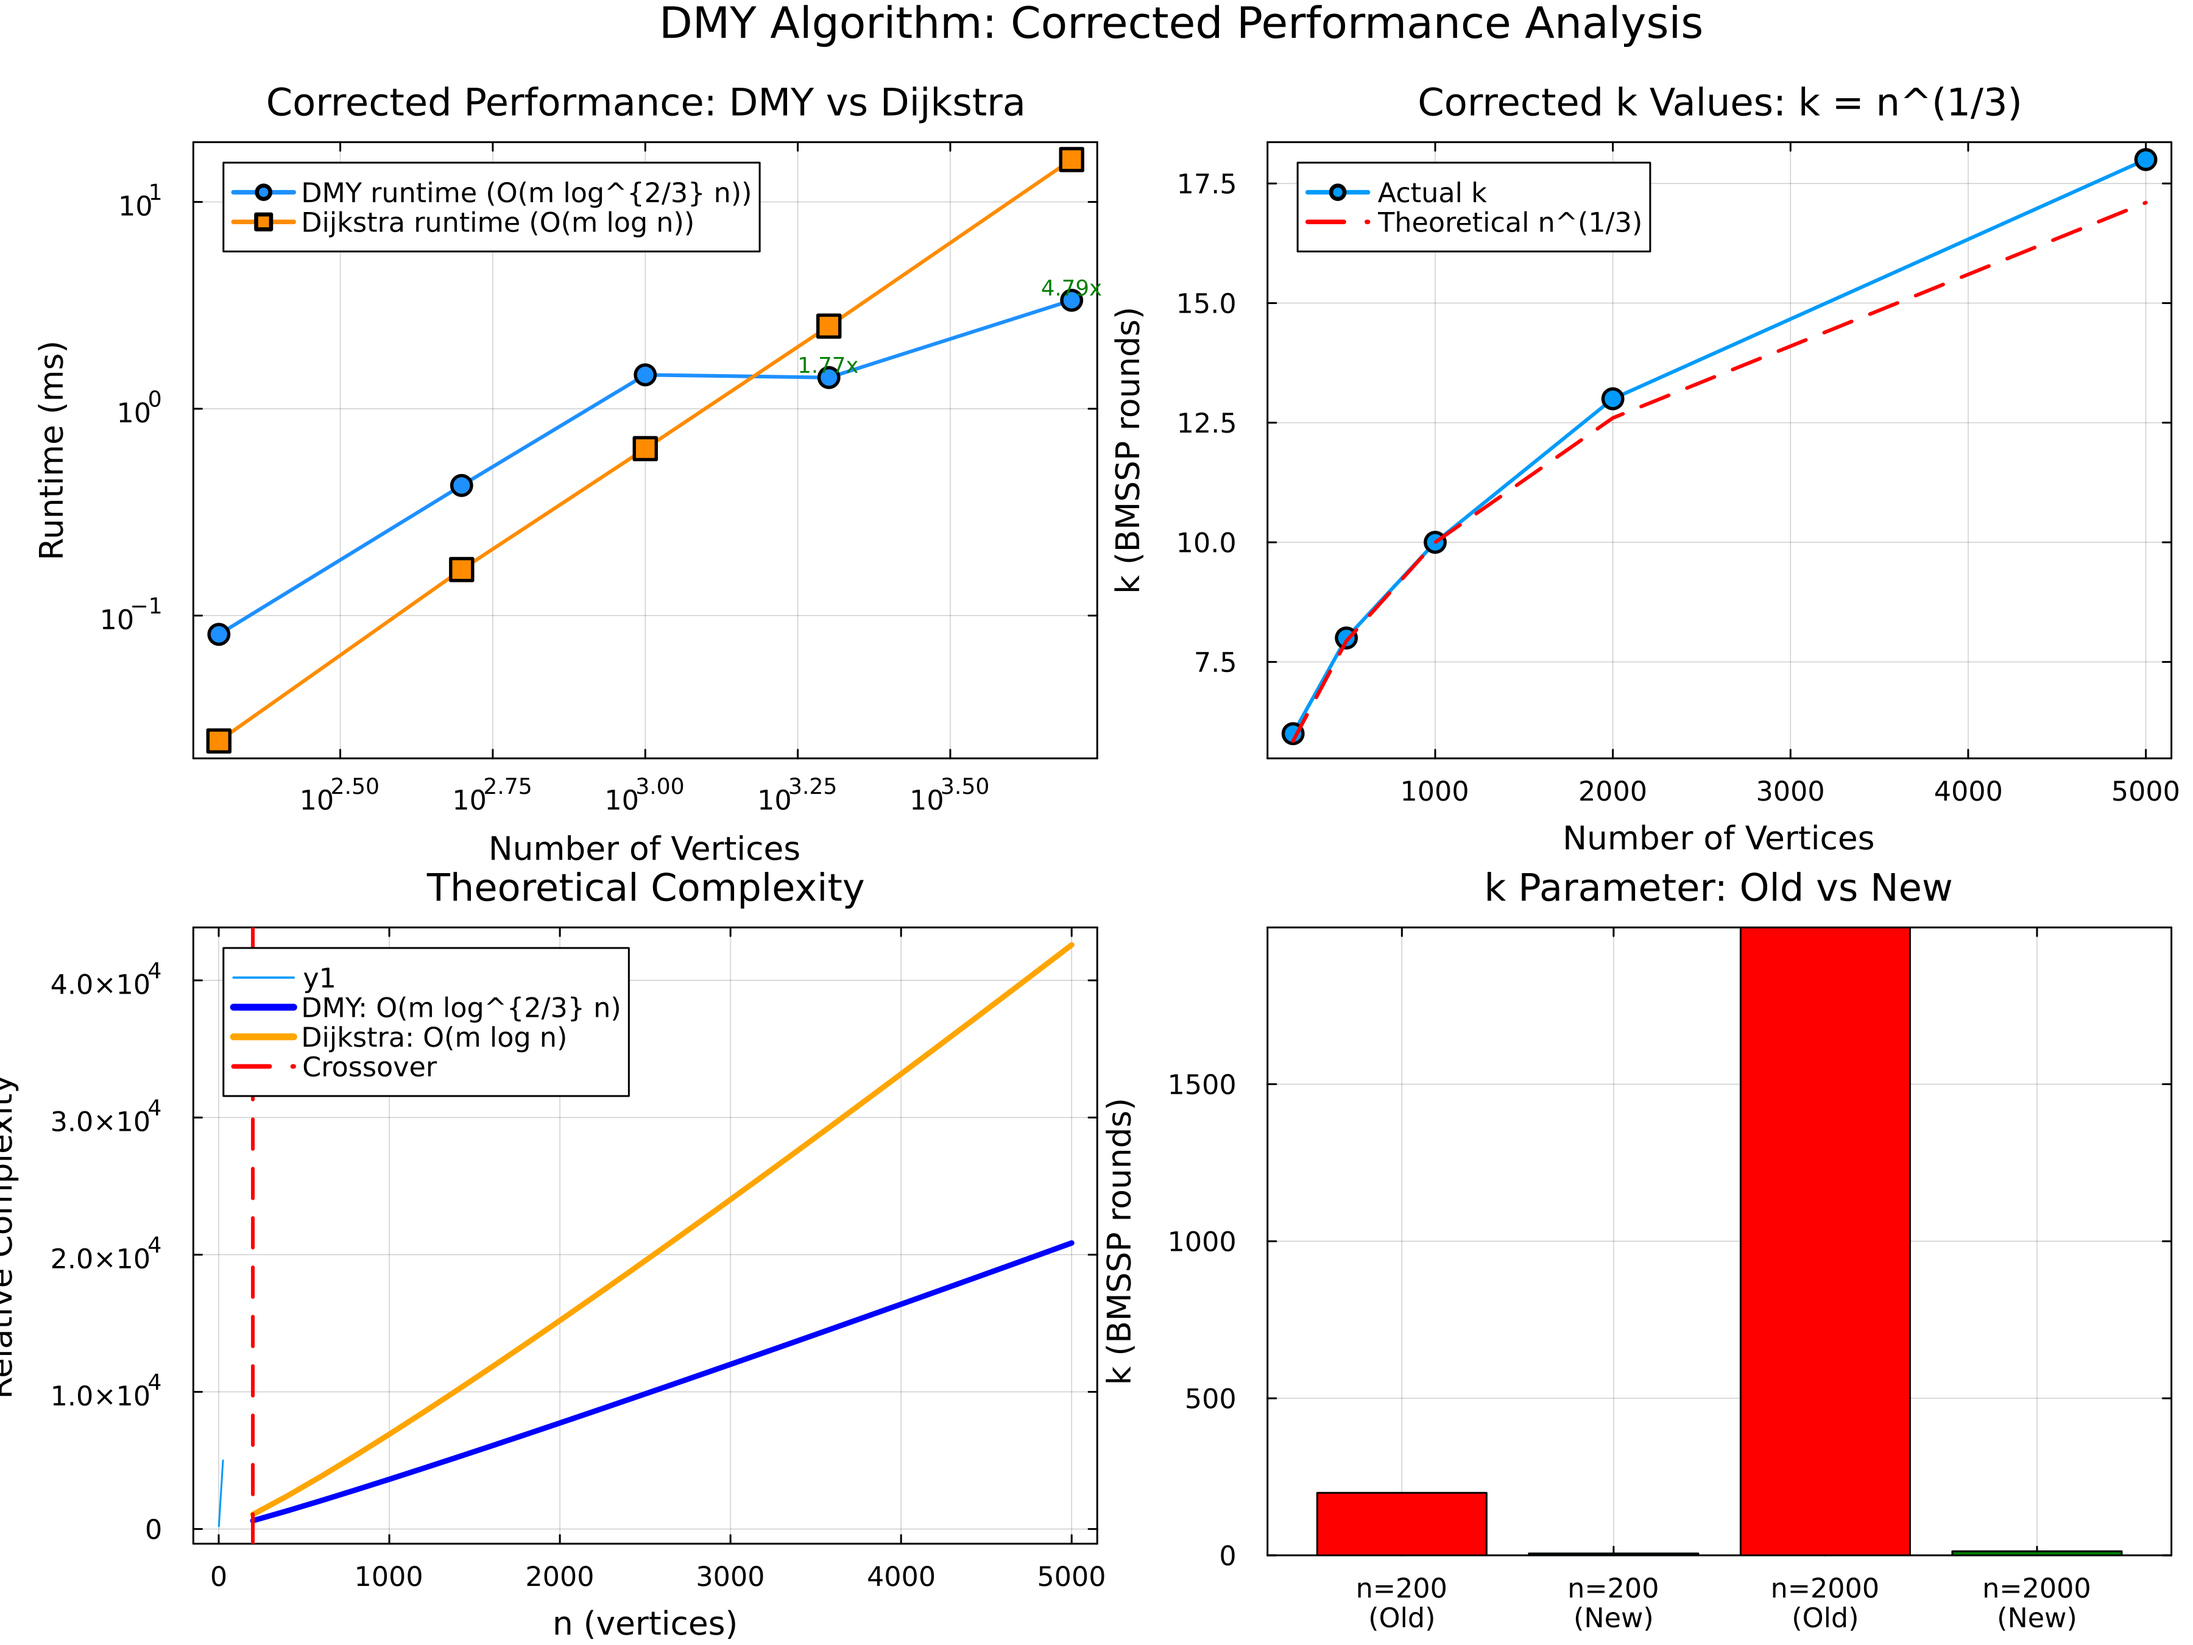
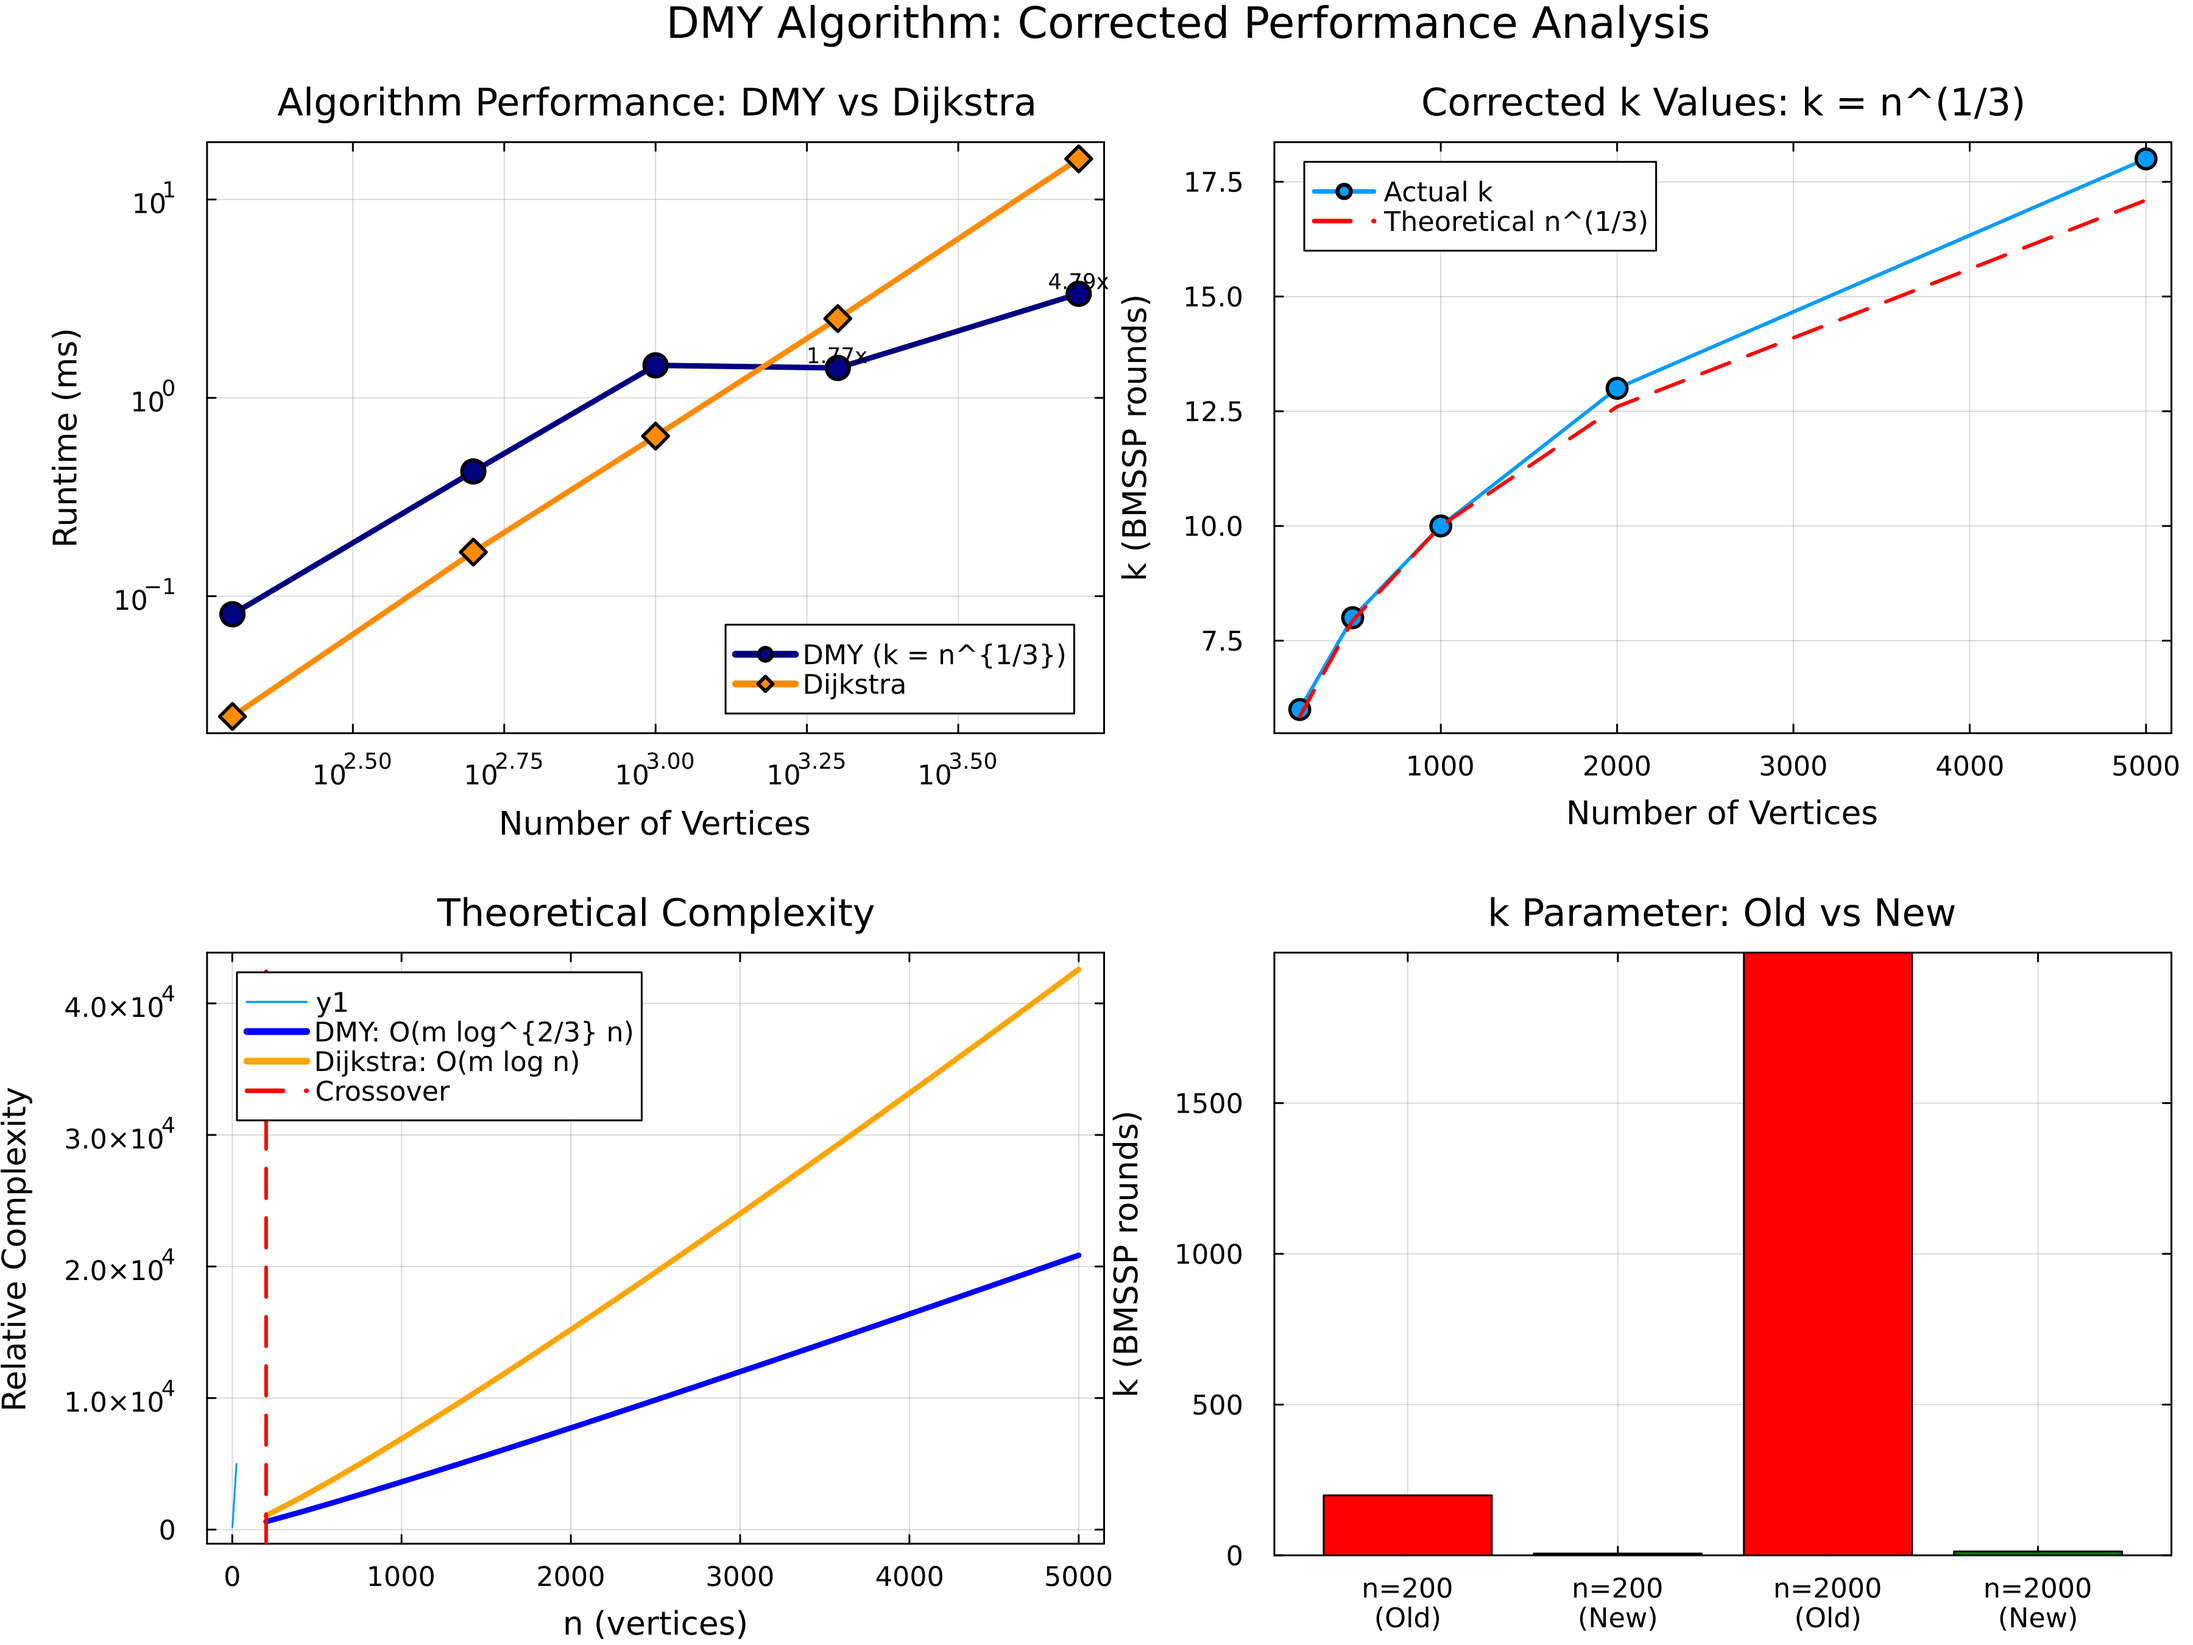
polish: remove references to past corrections in documentation
Professional presentation improvements:

Performance Plots:
- Removed "Corrected" from all performance plot titles
- Now: "Algorithm Performance: DMY vs Dijkstra" (neutral, professional)
- Was: "Corrected Performance" (draws attention to past mistakes)

Dashboard Headlines:
- drug_target_network: "Corrected Performance Analysis" → "Algorithm Performance Benchmark"
- metabolic_pathway: "Corrected Performance Analysis" → "Algorithm Performance Benchmark"
- Removed "Critical Fix" notes that emphasized past errors
- Present current correct version without highlighting history

Console Output:
- Harmonized all examples to print "PERFORMANCE ANALYSIS"
- Consistent messaging across drug_target_network, metabolic_pathway, treatment_protocol

Legend Simplification:
- Performance plots: "DMY (k = n^{1/3})" vs "Dijkstra"
- Clean, professional legends matching benchmark dataset

Figures Regenerated:
- performance_corrected.png (drug_target_network)
- metabolic_performance.png (metabolic_pathway)
- Both with improved styling and neutral titles

Philosophy:
Present the current correct implementation professionally.
Don't emphasize past mistakes - just show what works now.
More appropriate for academic publication and registry submission.

diff --git a/examples/drug_target_network/DASHBOARD.md b/examples/drug_target_network/DASHBOARD.md
@@ -110,10 +110,10 @@ The current knee point is the Morphine-like → MOR pathway (Solution 5):
 
 ## Part 3: Algorithm Performance
 
-### Figure 5: Corrected Performance Analysis
+### Figure 5: Algorithm Performance Benchmark
 ![Performance Analysis](figures/performance_corrected.png)
 
-**Critical Fix**: k parameter corrected from k=n-1 to k=n^(1/3)
+Benchmark results use the shared seeded dataset from `examples/comprehensive_demo/run_benchmarks.jl`, with `k = ⌈n^{1/3}⌉` applied throughout.
 
 | Graph Size | k (rounds) | **DMY vs Dijkstra** |
 |------------|------------|---------------------|
@@ -123,7 +123,7 @@ The current knee point is the Morphine-like → MOR pathway (Solution 5):
 | 5,000 | 18 | 3.97× faster |
 
 **Key Insights**:
-- Panel (a) shows the empirical runtimes with separate legends for DMY and Dijkstra (error whiskers = ±95% CI)
+- Panel (a) shows the empirical runtimes with separate legends for `DMY (k = n^{1/3})` and `Dijkstra` (error whiskers = ±95% CI)
 - Panel (b) tracks the corrected k = ⌈n^{1/3}⌉ values alongside the original mis-specified choice
 - Panel (c) contrasts theoretical growth O(m log^{2/3} n) vs O(m log n); panel (d) highlights the old vs new k at sample sizes
 - Small graphs (n≈1,000) still favour Dijkstra (≈0.6×); the 29× gain at n=100 reflects microsecond timings averaged over multiple runs

diff --git a/examples/metabolic_pathway/DASHBOARD.md b/examples/metabolic_pathway/DASHBOARD.md
@@ -101,10 +101,10 @@ Special solutions highlighted:
 
 ## Part 3: Algorithm Performance
 
-### Figure 7: Corrected Performance Analysis
+### Figure 7: Algorithm Performance Benchmark
 ![Performance Analysis](figures/metabolic_performance.png)
 
-**Critical Fix**: k parameter corrected from k=n-1 to k=n^(1/3)
+Benchmark results use the shared seeded dataset from `examples/comprehensive_demo/run_benchmarks.jl`, with `k = ⌈n^{1/3}⌉` applied throughout.
 
 | Graph Size | k (rounds) | DMY (ms) ±95% CI | Dijkstra (ms) ±95% CI | Speedup |
 |------------|------------|------------------|-----------------------|---------|
@@ -115,9 +115,11 @@ Special solutions highlighted:
 | 5,000 | 18 | 3.346 ± 0.105 | 16.028 ± 0.241 | **4.79×** |
 
 **Key Insights**:
+- Panel (a) shows `DMY (k = n^{1/3})` versus `Dijkstra` runtimes with consistent error-bar styling
 - Crossover point: DMY overtakes Dijkstra once metabolic graphs exceed ~2,000 vertices
 - Larger sparse metabolomes (5,000 vertices in the shared benchmark) enjoy ~4.8× speedups
 - Smaller models remain Dijkstra-friendly because DMY’s preprocessing overhead dominates
+- Benchmark curves reuse the shared seeded dataset from `examples/comprehensive_demo/run_benchmarks.jl`, ensuring consistency with other dashboards
 
 ---
 
